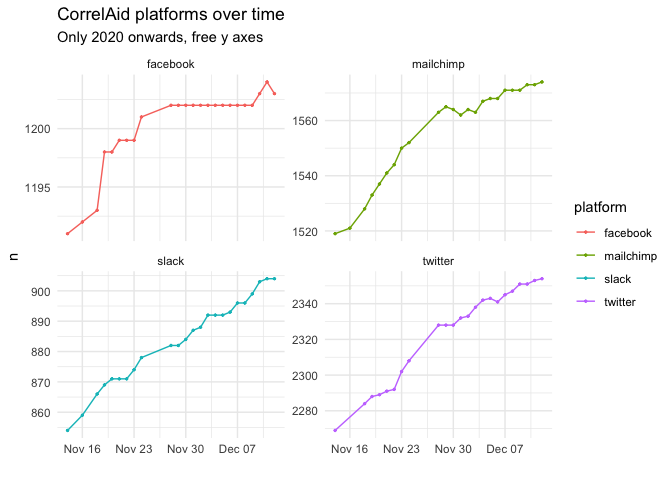
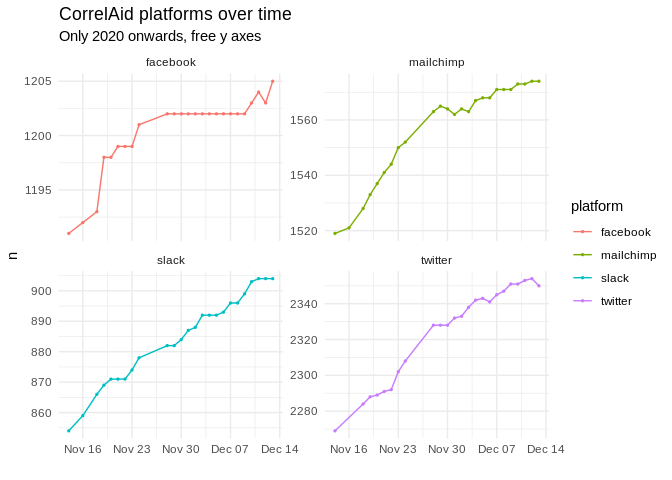
🤖 CRON - update daily data

diff --git a/README.md b/README.md
@@ -3,7 +3,7 @@ correlaid-utils
 
 This repository contains utility tools for CorrelAid.
 
-:warning: Code in mailchimp-welcomemail is very outdated! Code was
+:warning: Code in mailchimp-welcomemail is very outdated\! Code was
 developed by [Frie](https://github.com/friep) back in 2017 but has not
 been actively used / maintained since 2018. The repository was solely
 open sourced for the purpose of Frie’s talk at the [Open Online Data
@@ -25,7 +25,8 @@ count and general network data on a daily basis using
 
 ### Plots
 
-*last updated*: 2020-12-13 14:40:25
+*last updated*: 2020-12-13
+14:41:16
 
     ## Warning: Ignoring unknown aesthetics: tooltip, data_id
 
@@ -65,7 +66,7 @@ Every morning at 7am, GitHub Actions run to see whether a commit was
 made to the `all_daily.csv` file. If not, then the build fails and I’ll
 get notified via email about the failed pipeline.
 
-## mailchimp-welcomemail (:warning: deprecated!)
+## mailchimp-welcomemail (:warning: deprecated\!)
 
 This folder contains the code to automatically send out the welcome
 email to new subscribers to our newsletter once a day.
